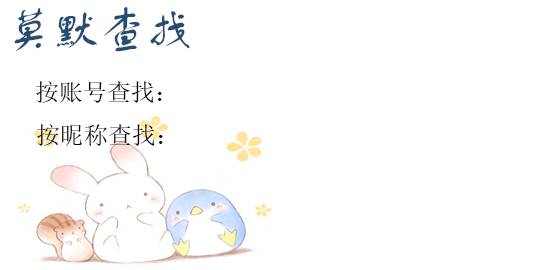
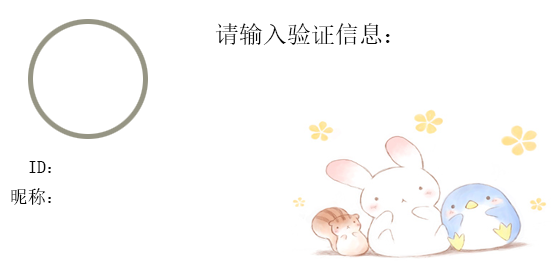
可以动态添加好友了

diff --git a/client/addfriend.c b/client/addfriend.c
@@ -6,7 +6,6 @@
 #include <glib-unix.h>
 #include <math.h>
 #include <cairo-script-interpreter.h>
-#include <lber.h>
 #include "addfriend.h"
 #include "common.h"
 #include "ClientSockfd.h"
@@ -15,17 +14,17 @@
 int searchfriend(CRPBaseHeader *header, void *data);
 
 GtkWidget *addwindow, *addframelayout;
-GtkWidget *addlayout2, *addlayout1, *addlayout3;//layout
+GtkWidget *addlayout2, *addlayout1, *addlayout31;//layout
 
 GtkWidget *addtext;
 
 cairo_surface_t *surfacebiaoji, *surfacenext, *surfacenext_press, *surfaceclose;
-cairo_surface_t *surfacebackground, *surfacebackground0, *surfacebackground3, *surfacedone,*surfacedone2;
+cairo_surface_t *surfacebackground1, *surfacebackground3, *surfacebackground0, *surfacebackground2, *surfacedone, *surfacedone2;
 cairo_surface_t *surfacehead;
 //资源
 
-GtkWidget *background, *background3, *biaoji, *next, *next_press, *addclose;    //引用
-GtkWidget  *smallhead, *done,*done2;
+GtkWidget *background1, *background2, *background3, *biaoji, *next, *next_press, *addclose;    //引用
+GtkWidget *smallhead, *done, *done2;
 
 GtkEventBox *next_enent_box, *close_event_box;
 GtkEventBox *next_enent_box2, *close_event_box2;
@@ -48,23 +47,27 @@ typedef struct add_friend_info {
 void create_surface()
 {
     //加载资源，第1个
-    surfacebackground = cairo_image_surface_create_from_png("查找背景2.png");
-    surfacebackground3 = cairo_image_surface_create_from_png("查找.png");
+    surfacebackground1 = cairo_image_surface_create_from_png("查找背景1.png");
+    surfacebackground2 = cairo_image_surface_create_from_png("查找背景2.png");
+    surfacebackground3 = cairo_image_surface_create_from_png("查找背景3.png");
+
     surfacebiaoji = cairo_image_surface_create_from_png("标记.png");
     surfacenext = cairo_image_surface_create_from_png("下一步.png");
     surfacenext_press = cairo_image_surface_create_from_png("下一步2.png");
     surfaceclose = cairo_image_surface_create_from_png("关闭按钮1.png");
+
     surfacedone = cairo_image_surface_create_from_png("完成.png");
-    surfacedone2=cairo_image_surface_create_from_png("完成2.png");
+    surfacedone2 = cairo_image_surface_create_from_png("完成2.png");
 
     //获得
-    background = gtk_image_new_from_surface(surfacebackground);
-    background3 = gtk_image_new_from_surface(surfacebackground3);
+    background1 = gtk_image_new_from_surface(surfacebackground1);
+    background2 = gtk_image_new_from_surface(surfacebackground2);
+
     biaoji = gtk_image_new_from_surface(surfacebiaoji);
     next = gtk_image_new_from_surface(surfacenext);
     addclose = gtk_image_new_from_surface(surfaceclose);
     done = gtk_image_new_from_surface(surfacedone);
-    done2= gtk_image_new_from_surface(surfacedone2);
+    done2 = gtk_image_new_from_surface(surfacedone2);
 
 }
 
@@ -80,62 +83,67 @@ static gint close_button_release_event(GtkWidget *widget, GdkEventButton *event,
 //完成
 static gint done_button_release_event(GtkWidget *widget, GdkEventButton *event, gpointer data)
 {
+
     struct add_friend_info *p = data;
     CRPFriendAddSend(sockfd, p->sessionid, p->uid, p->note);//发送添加请求
     gtk_widget_destroy(addwindow);
 }
-static gint done2_button_release_event(GtkWidget *widget, GdkEventButton *event, gpointer data)
-{
-//    struct add_friend_info *p = data;
-//    CRPFriendAddSend(sockfd, p->sessionid, p->uid, p->note);//发送添加请求
-//    gtk_widget_destroy(addwindow);
-}
+//
+//static gint done2_button_release_event(GtkWidget *widget, GdkEventButton *event, gpointer data)
+//{
+////    struct add_friend_info *p = data;
+////    CRPFriendAddSend(sockfd, p->sessionid, p->uid, p->note);//发送添加请求
+////    gtk_widget_destroy(addwindow);
+//}
 
 static gint next2_button_release_event(GtkWidget *widget, GdkEventButton *event, gpointer data)
 {
-    struct add_friend_info *p = data;
+        struct add_friend_info *p = data;
     GtkEntryBuffer *buf=gtk_entry_get_buffer(yanzhengxinxi);
     p->note=gtk_entry_buffer_get_text(buf);
-    gtk_widget_hide(addlayout2);
-    addlayout3 = gtk_fixed_new();
-    create_surface();
-    gtk_fixed_put(GTK_FIXED(addlayout3), background3, 0, 0);
-
+//    create_surface();
+//    gtk_fixed_put(GTK_FIXED(addlayout2), background3, 0, 0);
+//
     done_event_box = BuildEventBox(done,
-                                   G_CALLBACK(done2_button_release_event),
+                                   NULL,
                                    NULL,
                                    NULL,
                                    G_CALLBACK(done_button_release_event),
                                    NULL,
                                    p);
-//    closebut_event_box = BuildEventBox(
-//            closebut,
-//            G_CALLBACK(closebut_button_press_event),
-//            G_CALLBACK(closebut_enter_notify_event),
-//            G_CALLBACK(closebut_leave_notify_event),
-//            G_CALLBACK(closebut_button_release_event),
-//            NULL);
-    gtk_fixed_put(GTK_FIXED(addlayout3), done_event_box, 400, 200);
-    gtk_container_add(GTK_CONTAINER(addframelayout), addlayout3);
-    gtk_widget_show_all(addlayout3);
+
+//
+//    gtk_fixed_put(GTK_FIXED(addlayout2), done_event_box, 400, 200);
+//  //  gtk_container_add(GTK_CONTAINER(addframelayout), addlayout3);
+//    gtk_widget_show_all(addlayout2);
+    //gtk_widget_destroy(addlayout2);
+    //gtk_widget_hide(addlayout2);
+
+    background3 = gtk_image_new_from_surface(surfacebackground3);
+    addclose = gtk_image_new_from_surface(surfaceclose);
+
+    gtk_fixed_put(GTK_FIXED(addlayout2),background3, 183, 0);
+    gtk_fixed_put(GTK_FIXED(addlayout2),addclose, 519, 0);
+    gtk_fixed_put(GTK_FIXED(addlayout2),done_event_box, 400, 200);
+    //gtk_container_add(GTK_CONTAINER (addframelayout), addlayout2);
+    gtk_widget_show_all(addframelayout);
 
     return 0;
 }
 
-
+//第2步put图片
 gboolean first(gpointer user_data)
 {
-    addlayout2 = gtk_fixed_new();
-    surfacebackground0 = cairo_image_surface_create_from_png("查找2.png");
-    background0 = gtk_image_new_from_surface(surfacebackground0);
 
-    gtk_fixed_put(GTK_FIXED(addlayout2), background0, 0, 0);
     return FALSE;
 }
 
 
 gboolean putimage(gpointer user_data)
 {
+    addlayout2 = gtk_fixed_new();
+    gtk_fixed_put(GTK_FIXED(addlayout2), background2, 0, 0);
+
     struct add_friend_info *p = user_data;
     static cairo_t *cr;
     cairo_surface_t *surface;
@@ -166,7 +174,7 @@ gboolean putimage(gpointer user_data)
 
     yanzhengxinxi = gtk_entry_new();
     //yanzhengxinxi=GTK_SCROLLED_WINDOW(gtk_scrolled_window_new(NULL, NULL));
-    gtk_text_view_set_wrap_mode(yanzhengxinxi, GTK_WRAP_WORD_CHAR);//自动换行
+    //gtk_entry_set_wrap_mode(yanzhengxinxi, GTK_WRAP_WORD_CHAR);//自动换行
 
     gtk_widget_set_size_request(yanzhengxinxi, 220, 90);//验证信息窗口大小
     gtk_fixed_put(GTK_FIXED(addlayout2), yanzhengxinxi, 210, 75);//位置
@@ -196,13 +204,28 @@ gboolean putimage(gpointer user_data)
     create_surface();
 
 
-    close_event_box2 = BuildEventBox(addclose, NULL, NULL, NULL, G_CALLBACK(close_button_release_event), NULL, NULL);
-    next_enent_box2 = BuildEventBox(next, NULL, NULL, NULL, G_CALLBACK(next2_button_release_event), NULL, p);
+    close_event_box2 = BuildEventBox(
+            addclose,
+            NULL,
+            NULL,
+            NULL,
+            G_CALLBACK(close_button_release_event),
+            NULL,
+            NULL);
+    next_enent_box2 = BuildEventBox(
+            next,
+            NULL,
+            NULL,
+            NULL,
+            G_CALLBACK(next2_button_release_event),
+            NULL,
+            p);
 
     gtk_fixed_put(GTK_FIXED(addlayout2), next_enent_box2, 400, 200);
     gtk_fixed_put(GTK_FIXED(addlayout2), close_event_box2, 519, 0);
 
-    gtk_widget_hide(addlayout1);//隐藏1
+    //gtk_widget_hide(addlayout1);//隐藏1
+    gtk_widget_destroy(addlayout1);
     gtk_container_add(GTK_CONTAINER (addframelayout), addlayout2);
 
     gtk_widget_show_all(addlayout2);//显示2
@@ -212,7 +235,6 @@ gboolean putimage(gpointer user_data)
 
 int searchfriend(CRPBaseHeader *header, void *data)//接收查找好友的资料
 {
-    g_idle_add(first, "");
     struct add_friend_info *p = (struct add_friend_info *) data;
     switch (header->packetID)
     {
@@ -257,9 +279,6 @@ int searchfriend(CRPBaseHeader *header, void *data)//接收查找好友的资料
         };
 
 
-
-
-
     }
     return 1;
 }
@@ -275,8 +294,10 @@ static gint next_button_release_event(GtkWidget *widget, GdkEventButton *event, 
     return 0;
 }
 
+//构造第一个界面的地方
 int AddFriendFun()
 {
+
     addwindow = gtk_window_new(GTK_WINDOW_TOPLEVEL);
     addframelayout = gtk_layout_new(NULL, NULL);
     addlayout1 = gtk_fixed_new();
@@ -289,10 +310,26 @@ int AddFriendFun()
 
 
     create_surface();
-
-    next_enent_box = BuildEventBox(next, NULL, NULL, NULL, G_CALLBACK(next_button_release_event), NULL, NULL);
-    close_event_box = BuildEventBox(addclose, NULL, NULL, NULL, G_CALLBACK(close_button_release_event), NULL, NULL);
-    gtk_fixed_put(GTK_FIXED(addlayout1), background, 0, 0);
+//第一个界面的关闭和下一步
+    next_enent_box = BuildEventBox(
+            next,
+            NULL,
+            NULL,
+            NULL,
+            G_CALLBACK(next_button_release_event),
+            NULL,
+            NULL
+    );
+    close_event_box = BuildEventBox(
+            addclose,
+            NULL,
+            NULL,
+            NULL,
+            G_CALLBACK(close_button_release_event),
+            NULL,
+            NULL
+    );
+    gtk_fixed_put(GTK_FIXED(addlayout1), background1, 0, 0);
     gtk_fixed_put(GTK_FIXED(addlayout1), biaoji, 6, 75);
     gtk_fixed_put(GTK_FIXED(addlayout1), next_enent_box, 400, 200);
     gtk_fixed_put(GTK_FIXED(addlayout1), close_event_box, 519, 0);
@@ -309,6 +346,5 @@ int AddFriendFun()
 
 
 }
-
 
 

diff --git a/client/newuser.c b/client/newuser.c
@@ -14,7 +14,7 @@
 static GtkWidget *newwindow;
 static GtkWidget *zhuceLayout;
 static GtkWidget *mnickname, *newusername, *passwd1, *passwd2;
-static GtkWidget *background, *mminfo, *endwind;
+static GtkWidget *background1, *mminfo, *endwind;
 static cairo_surface_t *surface1, *surface3, *surface32, *surface33, *surface8, *surface82, *surface83;
 static GtkEventBox *closebut_event_box, *zhuce_event_box, *newbackground_event_box;
 
@@ -262,11 +262,11 @@ int newface()
     zhuceLayout = gtk_fixed_new();
     create_zhucefaces();
     gtk_container_add(GTK_CONTAINER(newwindow), zhuceLayout);
-    background = gtk_image_new_from_surface(surface1);
+    background1 = gtk_image_new_from_surface(surface1);
     mminfo = gtk_image_new_from_surface(surface3);
     endwind = gtk_image_new_from_surface(surface8);
 
-    newbackground_event_box = BuildEventBox(background,
+    newbackground_event_box = BuildEventBox(background1,
                                             G_CALLBACK(newbackground_button_press_event),
                                             NULL,
                                             NULL,
@@ -290,7 +290,7 @@ int newface()
                                        NULL,
                                        NULL);
     gtk_fixed_put(GTK_FIXED(zhuceLayout), newbackground_event_box, 0, 0);//起始坐标
-    gtk_widget_set_size_request(GTK_WIDGET(background), 500, 500);
+    gtk_widget_set_size_request(GTK_WIDGET(background1), 500, 500);
     gtk_fixed_put(GTK_FIXED(zhuceLayout), zhuce_event_box, 20, 440);
     gtk_fixed_put(GTK_FIXED(zhuceLayout), closebut_event_box, 530, 0);
 

diff --git a/client/MainInterface.c b/client/MainInterface.c
@@ -15,7 +15,7 @@
 #include "addfriend.h"
 #include "Infomation.h"
 
-static GtkWidget *background, *headx, *search, *friend, *closebut;
+static GtkWidget *background1, *headx, *search, *friend, *closebut;
 static GtkWidget *window;
 static GtkTreeView *treeView;
 static GtkWidget *frameLayout, *MainLayout;
@@ -132,7 +132,7 @@ static void create_surfaces()
     surfaceclose52 = cairo_image_surface_create_from_png("关闭按钮2.png");
     surfaceclose53 = cairo_image_surface_create_from_png("关闭按钮3.png");
 
-    background = gtk_image_new_from_surface(surfacemainbackgroud);
+    background1 = gtk_image_new_from_surface(surfacemainbackgroud);
     search = gtk_image_new_from_surface(surfaceresearch);
     friend = gtk_image_new_from_surface(surfacefriendimage);
     closebut = gtk_image_new_from_surface(surfaceclose51);
@@ -592,7 +592,7 @@ int MainInterFace()
 
     create_surfaces();
 
-    background_event_box = BuildEventBox(background,
+    background_event_box = BuildEventBox(background1,
             G_CALLBACK(background_button_press_event),
             NULL,
             NULL,

diff --git a/client/ClientSockfd.c b/client/ClientSockfd.c
@@ -16,6 +16,7 @@
 #include "PopupWinds.h"
 #include "common.h"
 #include "UpdataFriendList.h"
+#include "addfriend.h"
 
 pthread_t ThreadKeepAlive;
 
@@ -79,6 +80,7 @@ gboolean postMessage(gpointer user_data)
     if (packet->messageType == UMT_NEW_FRIEND)
     {
         popup("添加请求", "用户请求添加你为好友");
+
         CRPFriendAcceptSend(sockfd, 1, packet->uid);//同意的话发送Accept
     }
     return 0;
@@ -86,12 +88,9 @@ gboolean postMessage(gpointer user_data)
 
 int UpFriendList(void *data)//更新好友列表
 {
-    //第一步
-    //  g_idle_add(upda_first, data);
+
     upda_first(data);
-//    treeView = (GtkTreeView *) gtk_tree_view_new_with_model(upda_first(data));//list
-    //第2步
-    //第3步
+
     return 0;
 }
 

diff --git a/client/common/util.c b/client/common/util.c
@@ -29,7 +29,7 @@ GtkEventBox *BuildEventBox(GtkWidget *warp, GCallback press, GCallback enter, GC
     if (leave)
         g_signal_connect(G_OBJECT(eventBox), "leave_notify_event", G_CALLBACK(leave), data);
     if (click)
-        g_signal_connect(G_OBJECT(eventBox), "click", G_CALLBACK(click), data);
+        g_signal_connect(G_OBJECT(eventBox), "clicked", G_CALLBACK(click), data);
     GdkRGBA rgba = {1, 1, 1, 0};
     gtk_widget_override_background_color(GTK_WIDGET(eventBox), GTK_STATE_FLAG_NORMAL, &rgba);//设置透明
     gtk_container_add((GTK_CONTAINER(eventBox)), warp);

diff --git a/server/server.c b/server/server.c
@@ -58,6 +58,8 @@ int main(int argc, char **argv)
     InitUserManager();
 
     pthread_create(&ThreadListener, NULL, ListenMain, NULL);
+    while (getchar() != 'q')
+        putchar('.');
     pthread_join(ThreadListener, NULL);
     for (i = 0; i < WORKER_COUNT; i++)
     {

diff --git a/client/PopupWinds.c b/client/PopupWinds.c
@@ -144,3 +144,4 @@ int popup(const char *title, const char *tell)
     gtk_widget_destroy(popupwindow);
     return 0;
 }
+
